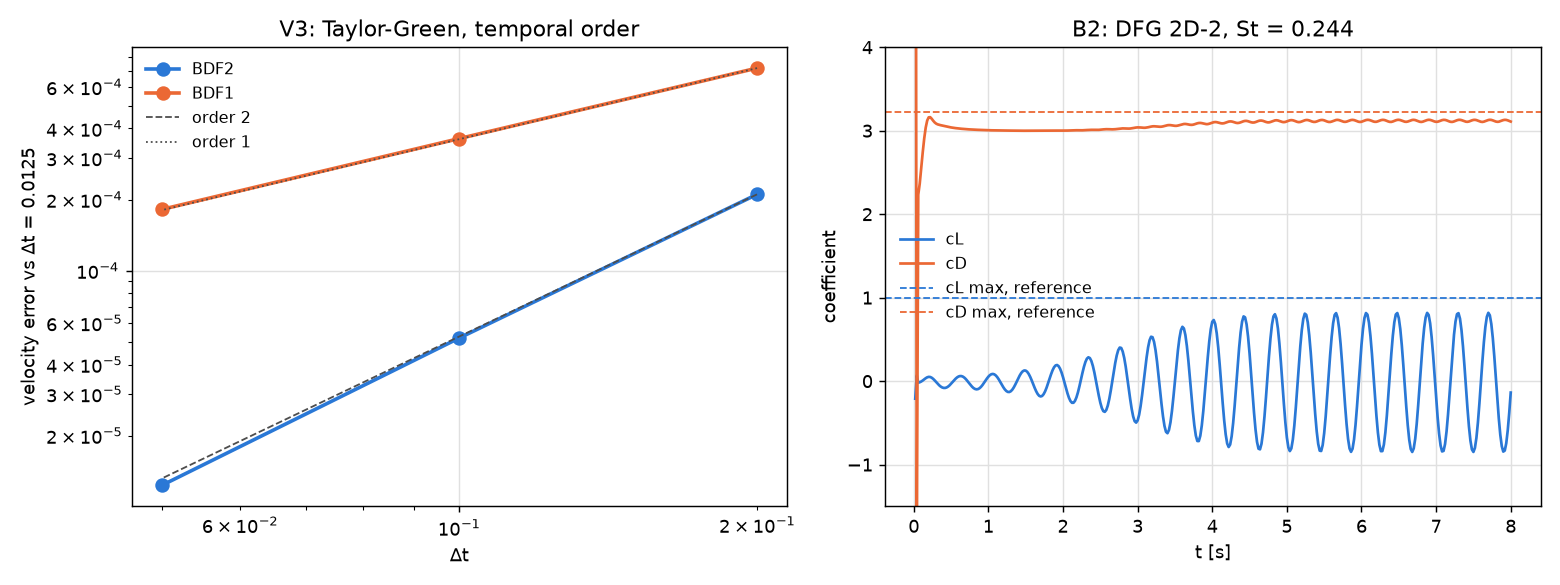
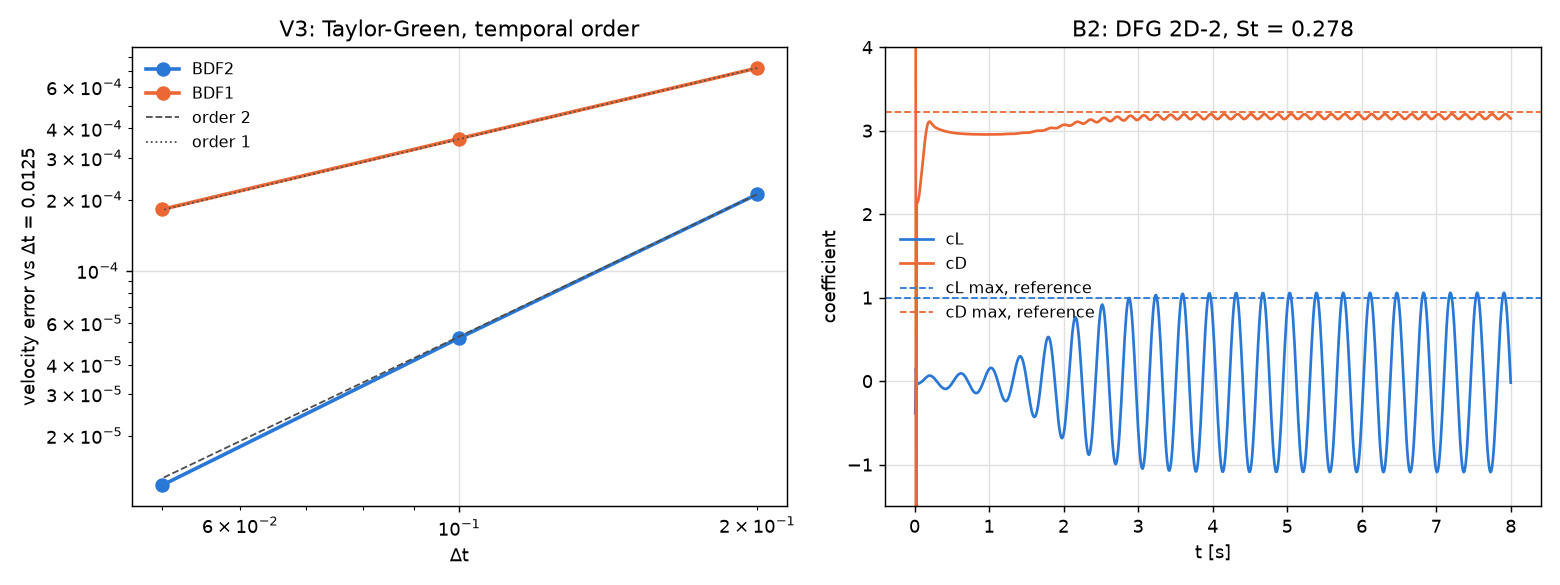
Validation: DFG 2D-2 figure at the medium resolution
Claude-Session: https://claude.ai/code/session_01NntC9y8wRZkfeVP5YUEQMj

Changed region(s): [[0.5846, 0.4923, 0.9846, 0.8], [0.5846, 0.1846, 0.9846, 0.3077], [0.8308, 0.0308, 0.8923, 0.0615]]

diff --git a/docs/validation.md b/docs/validation.md
@@ -86,15 +86,15 @@ inner drop.
 **DFG 2D-2** (Re = 100, periodic shedding, Schäfer & Turek 1996; reference
 St 0.295–0.305, c_D,max 3.22–3.24, c_L,max 0.99–1.01, Δp 2.46–2.50):
 
-| mesh, Δt | St | c_D,max | c_L,max |
-|---|---|---|---|
-| 1.5k cells, 0.02 (figure) | 0.244 | 3.13 | 0.82 |
-| 4.4k cells, 0.01 (`--medium`) | 0.278 (−7 %) | 3.20 (−1 %) | 1.06 (+5 %) |
+| mesh, Δt | St | c_D,max | c_L,max | Δp |
+|---|---|---|---|---|
+| 1.5k cells, 0.02 (default) | 0.244 | 3.13 | 0.82 | 2.31 |
+| 4.4k cells, 0.01 (`--medium`, figure) | 0.278 (−7 %) | 3.199 (−1 %) | 1.059 (+5 %) | 2.439 (−1.5 %) |
 
 The coarse mesh resolves the wake poorly and the shedding frequency and
 amplitude come out low; the medium mesh is within the spread the DFG
 participants reported. Both are deliberately small cases (two and ten
-minutes).
+minutes); three inner Newton–Krylov iterations per step in both.
 
 ![unsteady](figures/stage4_unsteady.png)
 
